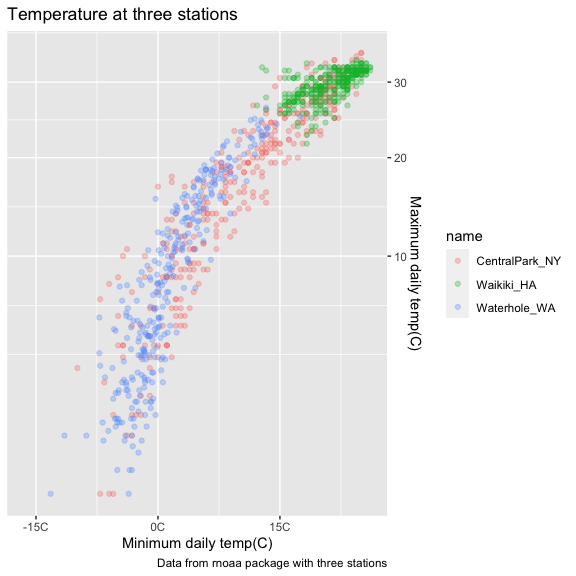
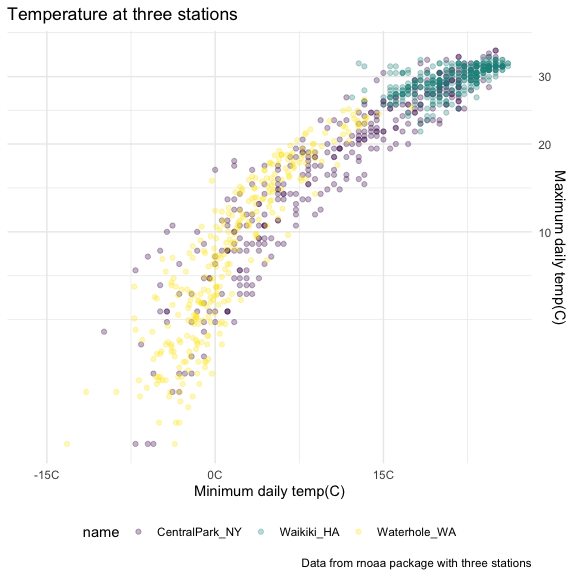
patchwork, eaxmple on factors and data manipulation

diff --git a/viz_part2.md b/viz_part2.md
@@ -3,27 +3,10 @@ ggplot\_2
 
 ``` r
 library(tidyverse)
-```
-
-    ## ── Attaching packages ─────────────────────────────────────── tidyverse 1.3.1 ──
-
-    ## ✓ ggplot2 3.3.5     ✓ purrr   0.3.4
-    ## ✓ tibble  3.1.4     ✓ dplyr   1.0.7
-    ## ✓ tidyr   1.1.3     ✓ stringr 1.4.0
-    ## ✓ readr   2.0.1     ✓ forcats 0.5.1
-
-    ## ── Conflicts ────────────────────────────────────────── tidyverse_conflicts() ──
-    ## x dplyr::filter() masks stats::filter()
-    ## x dplyr::lag()    masks stats::lag()
-
-``` r
-library(viridis)
-```
-
-    ## Loading required package: viridisLite
-
-``` r
+library(viridisLite)
 library(ggridges)
+library(patchwork)
+
 knitr::opts_chunk$set(
   warning = FALSE,
   message = FALSE,
@@ -31,6 +14,15 @@ knitr::opts_chunk$set(
   fig.height = 6,
   out.width = "90%"
 )
+theme_set(theme_minimal() + theme(legend.position = "bottom"))
+
+options(
+  ggplot2.continuous.colour = "viridis",
+  ggplot2.continuous.fill = "viridis"
+)
+
+scale_colour_discrete = scale_colour_viridis_d
+scale_fill_discrete = scale_fill_viridis_d
 ```
 
 ``` r
@@ -101,62 +93,13 @@ weather_df %>%
     y = "Maximum daily temp(C)",
     caption = "Data from rnoaa package with three stations"
   ) +
-  scale_color_hue(
+   scale_color_hue(
     name = "Location"
-  )
-```
-
-<img src="viz_part2_files/figure-gfm/unnamed-chunk-5-1.png" width="90%" />
-
-``` r
+  ) +
   scale_color_viridis_d()
 ```
 
-    ## <ggproto object: Class ScaleDiscrete, Scale, gg>
-    ##     aesthetics: colour
-    ##     axis_order: function
-    ##     break_info: function
-    ##     break_positions: function
-    ##     breaks: waiver
-    ##     call: call
-    ##     clone: function
-    ##     dimension: function
-    ##     drop: TRUE
-    ##     expand: waiver
-    ##     get_breaks: function
-    ##     get_breaks_minor: function
-    ##     get_labels: function
-    ##     get_limits: function
-    ##     guide: legend
-    ##     is_discrete: function
-    ##     is_empty: function
-    ##     labels: waiver
-    ##     limits: NULL
-    ##     make_sec_title: function
-    ##     make_title: function
-    ##     map: function
-    ##     map_df: function
-    ##     n.breaks.cache: NULL
-    ##     na.translate: TRUE
-    ##     na.value: NA
-    ##     name: waiver
-    ##     palette: function
-    ##     palette.cache: NULL
-    ##     position: left
-    ##     range: <ggproto object: Class RangeDiscrete, Range, gg>
-    ##         range: NULL
-    ##         reset: function
-    ##         train: function
-    ##         super:  <ggproto object: Class RangeDiscrete, Range, gg>
-    ##     rescale: function
-    ##     reset: function
-    ##     scale_name: viridis_d
-    ##     train: function
-    ##     train_df: function
-    ##     transform: function
-    ##     transform_df: function
-    ##     super:  <ggproto object: Class ScaleDiscrete, Scale, gg>
-
+<img src="viz_part2_files/figure-gfm/unnamed-chunk-5-1.png" width="90%" />
 color scale `viridis`
 
 ## Themes
@@ -221,3 +164,90 @@ waikiki %>%
 ```
 
 <img src="viz_part2_files/figure-gfm/unnamed-chunk-8-1.png" width="90%" />
+
+## `patchwork`
+
+``` r
+gg_tmax_tmin <-  
+  weather_df %>% 
+  ggplot(aes(x = tmin, y = tmax, color = name)) +
+  geom_point(alpha = .3) +
+  theme(legend.position = "none")
+
+gg_prcp_dens <-
+  weather_df %>% 
+  filter(prcp > 0) %>% 
+  ggplot(aes(x = prcp, fill = name)) +
+  geom_density(alpha = .3) +
+  theme(legend.position = "none")
+
+gg_tmax_date <- 
+  weather_df %>% 
+  ggplot(aes(x = date, y = tmax, color = name)) +
+  geom_point() +
+  geom_smooth() +
+  theme(legend.position = "bottom")
+
+(gg_tmax_tmin + gg_prcp_dens)
+```
+
+<img src="viz_part2_files/figure-gfm/unnamed-chunk-9-1.png" width="90%" />
+
+## data manipulation
+
+quick example on factors
+
+``` r
+weather_df %>% 
+  mutate(
+    name = fct_reorder(name, tmax)
+  ) %>% 
+  ggplot(aes(x = name, y = tmax)) +
+  geom_boxplot()
+```
+
+<img src="viz_part2_files/figure-gfm/unnamed-chunk-10-1.png" width="90%" />
+
+What about tmax and tmin
+
+``` r
+weather_df %>% 
+  pivot_longer(
+    tmax:tmin,
+    names_to = "obs",
+    values_to = "temperature"
+  ) %>% 
+  ggplot(aes(x = temperature, fill = obs)) +
+  geom_density(alpha = .3) +
+  facet_grid(. ~ name)
+```
+
+<img src="viz_part2_files/figure-gfm/unnamed-chunk-11-1.png" width="90%" />
+
+``` r
+pulse_df <-
+  haven::read_sas("data/public_pulse_data.sas7bdat") %>% 
+  janitor::clean_names() %>% 
+  pivot_longer(
+    bdi_score_bl:bdi_score_12m,
+    names_to = "visit",
+    values_to = "bdi",
+    names_prefix = "bdi_score_"
+  ) %>% 
+  mutate(visit = recode(visit, "bl" = "00m"))
+
+pulse_df %>% 
+  ggplot(aes(x = visit, y = bdi)) +
+  geom_boxplot()
+```
+
+<img src="viz_part2_files/figure-gfm/unnamed-chunk-12-1.png" width="90%" />
+
+``` r
+pulse_df %>% 
+  ggplot(aes(x = visit, y = bdi)) +
+  geom_point() +
+  geom_line(aes(group = id))
+```
+
+<img src="viz_part2_files/figure-gfm/unnamed-chunk-12-2.png" width="90%" />
